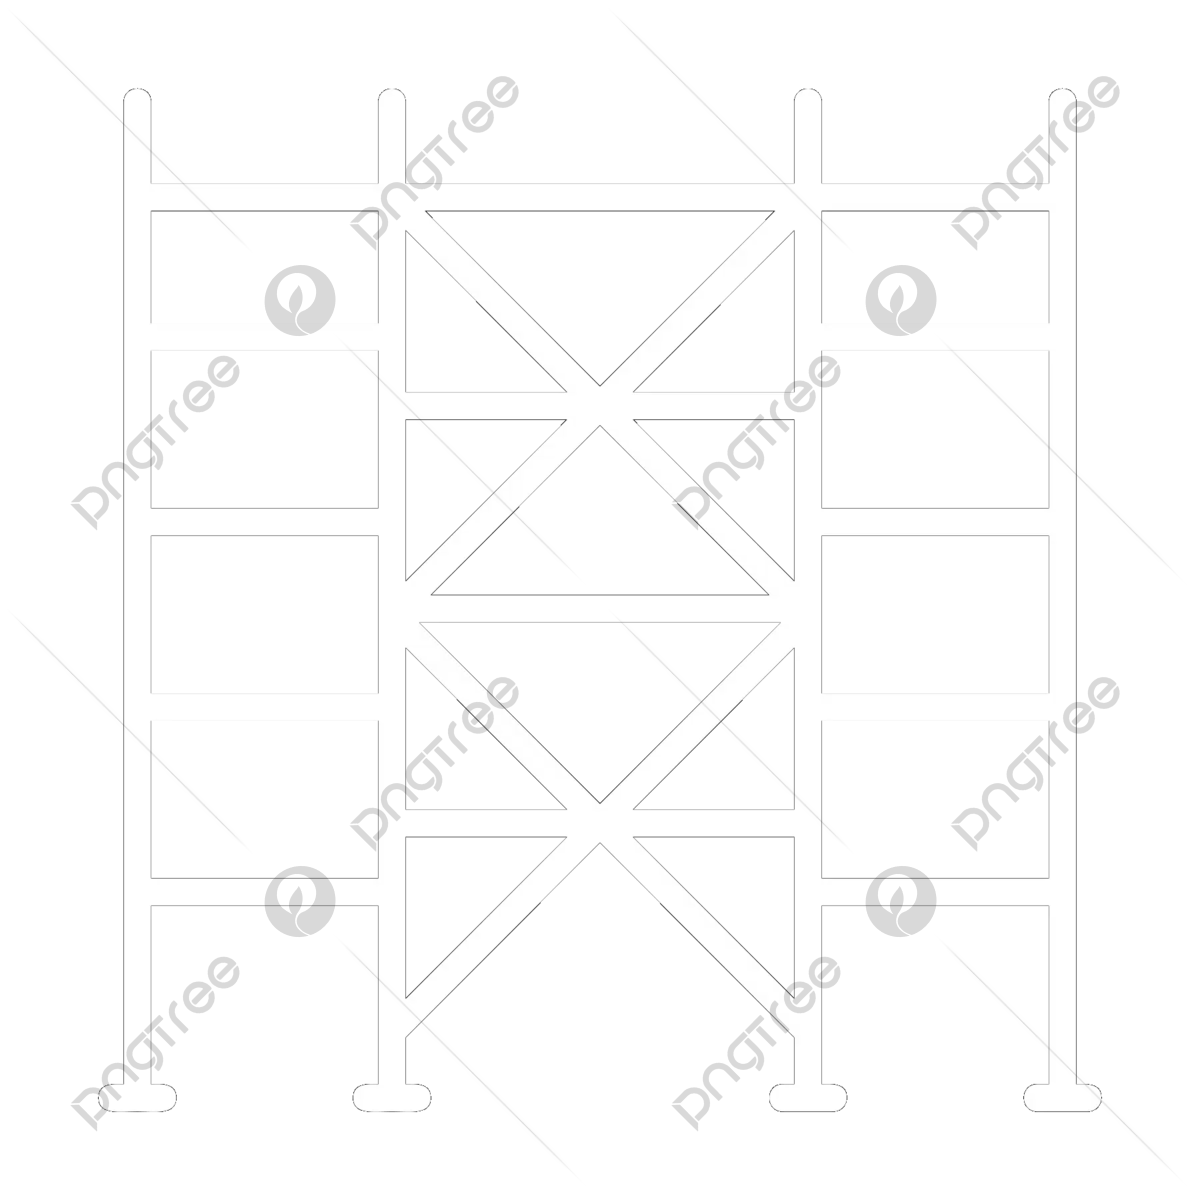
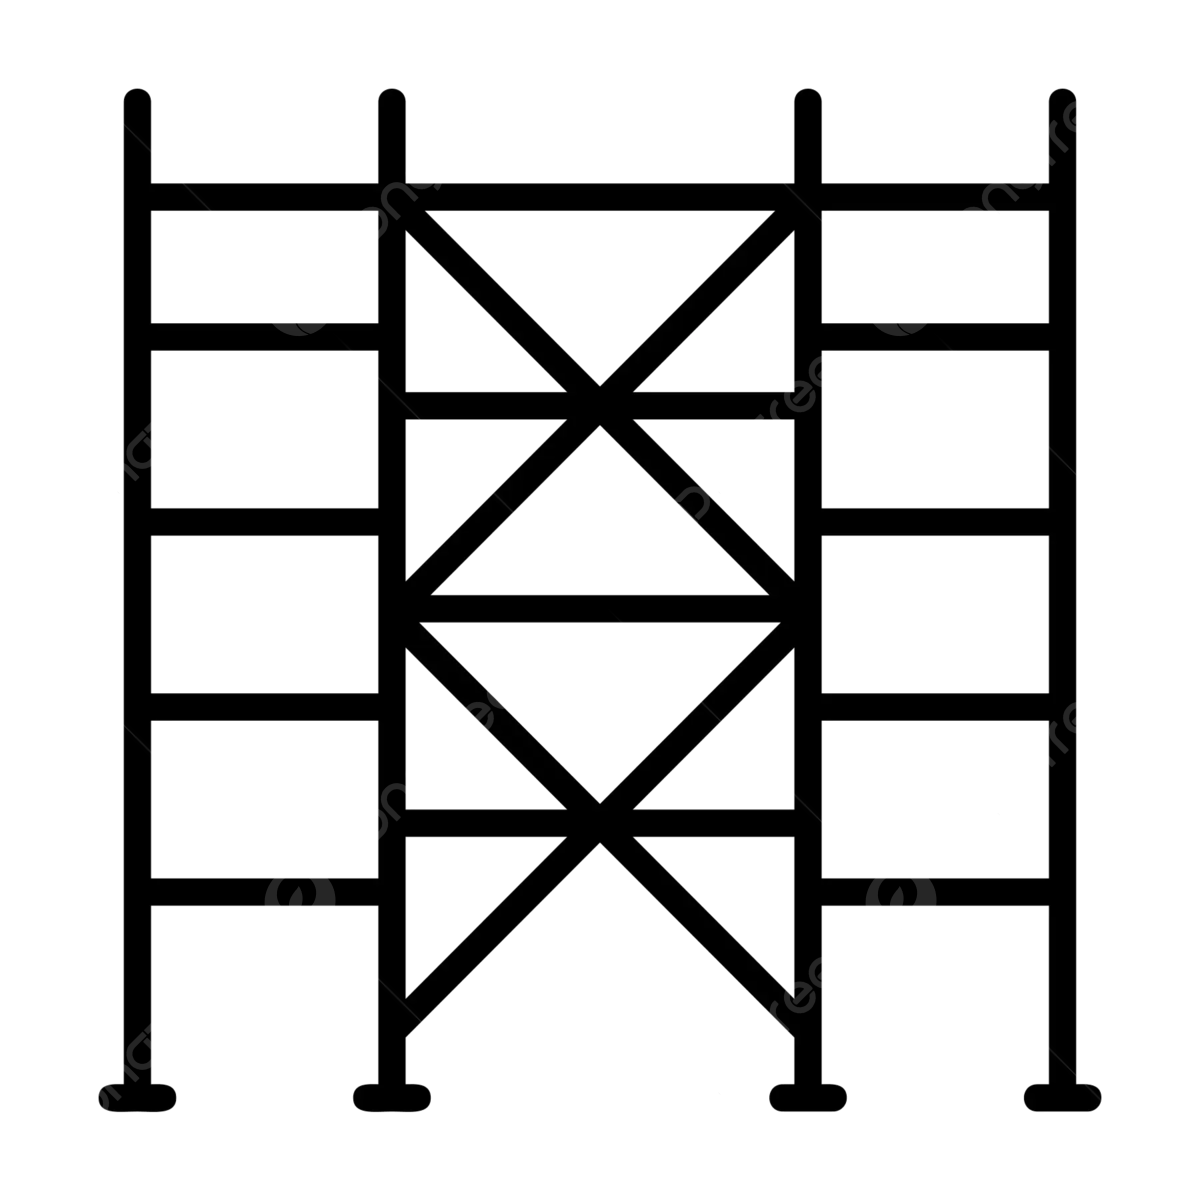
Carrusel Añadido

Changed region(s): [[0.0617, 0.0617, 0.9558, 0.9558]]

diff --git a/ProyectoFinalHTML/src/CSS General.css b/ProyectoFinalHTML/src/CSS General.css
@@ -483,6 +483,61 @@ body {
 .bg-trajes    { background: url("Catalogo/File/Trajes.png")    center/cover; }
 .bg-senales   { background: url("Catalogo/File/Señales.png")   center/cover; }
 
+/* ===== Videos ===== */
+.video-carousel {
+    position: relative;
+    max-width: 800px;
+    margin: 0 auto;
+}
+
+/* Ocultar radios */
+.video-carousel input {
+    display: none;
+}
+
+/* Contenedor de videos */
+.video-carousel .slides {
+    display: grid;
+    grid-template-columns: 100%;
+    position: relative;
+}
+
+.video-carousel video {
+    width: 100%;
+    display: none;
+    border: 2px solid #a4ff00;
+    border-radius: 6px;
+    box-shadow: 0 4px 12px rgba(0,0,0,0.3);
+}
+
+/* Mostrar el video según el radio seleccionado */
+#video1:checked ~ .slides video:nth-child(1),
+#video2:checked ~ .slides video:nth-child(2),
+#video3:checked ~ .slides video:nth-child(3),
+#video4:checked ~ .slides video:nth-child(4) {
+    display: block;
+}
+
+/* Botones de navegación */
+.video-carousel .nav {
+    display: flex;
+    justify-content: center;
+    margin-top: 10px;
+    gap: 8px;
+}
+
+.video-carousel .nav label {
+    width: 14px;
+    height: 14px;
+    border-radius: 50%;
+    background: #ccc;
+    cursor: pointer;
+    transition: background 0.3s;
+}
+
+.video-carousel .nav label:hover {
+    background: #a4ff00;
+}
 
 /* ===== CTA — Llamado a la acción al final del catálogo ===== */
 .cta {

diff --git a/ProyectoFinalHTML/src/Catalogo/Catalogo.html b/ProyectoFinalHTML/src/Catalogo/Catalogo.html
@@ -98,19 +98,35 @@
 
 
     <!-- ============================================================
-         VIDEO — iframe de YouTube sobre seguridad industrial
-         ============================================================ -->
+     VIDEO — Sección de videos locales
+     ============================================================ -->
     <section class="seccion-video">
         <h2>NUESTROS PRODUCTOS EN ACCIÓN</h2>
         <p>Conoce cómo se aplican nuestros equipos en obra real</p>
-        <div class="video-wrapper">
-            <!-- VIDEO: iframe de YouTube — enlace externo -->
-            <iframe
-                    src="https://www.youtube.com/embed/dQw4w9WgXcQ"
-                    title="Productos de seguridad industrial Safeguard"
-                    allow="accelerometer; autoplay; clipboard-write; encrypted-media; gyroscope; picture-in-picture"
-                    allowfullscreen>
-            </iframe>
+
+        <div class="video-carousel">
+
+            <!-- Controles del carrusel -->
+            <input type="radio" name="slider" id="video1" checked>
+            <input type="radio" name="slider" id="video2">
+            <input type="radio" name="slider" id="video3">
+            <input type="radio" name="slider" id="video4">
+
+            <!-- Videos -->
+            <div class="slides">
+                <video src="File/Gafas.mp4" controls></video>
+                <video src="File/Andamios.mp4" controls></video>
+                <video src="File/Cascos.mp4" controls></video>
+                <video src="File/Trajes.mp4" controls></video>
+            </div>
+
+            <!-- Botones de navegación -->
+            <div class="nav">
+                <label for="video1"></label>
+                <label for="video2"></label>
+                <label for="video3"></label>
+                <label for="video4"></label>
+            </div>
         </div>
     </section>
 

diff --git a/ProyectoFinalHTML/src/DetalleProducto/DetalleProducto.html b/ProyectoFinalHTML/src/DetalleProducto/DetalleProducto.html
@@ -67,7 +67,7 @@
 
         <!-- Imagen del producto -->
         <div class="producto-img">
-            <img src="File/cascoDetalles.webp" alt="Casco de Seguridad Profesional Safeguard Pro">
+            <img src="File/cascaos.png" alt="Casco de Seguridad Profesional Safeguard Pro">
         </div>
 
         <!-- Especificaciones técnicas del producto — contenido del sitio -->